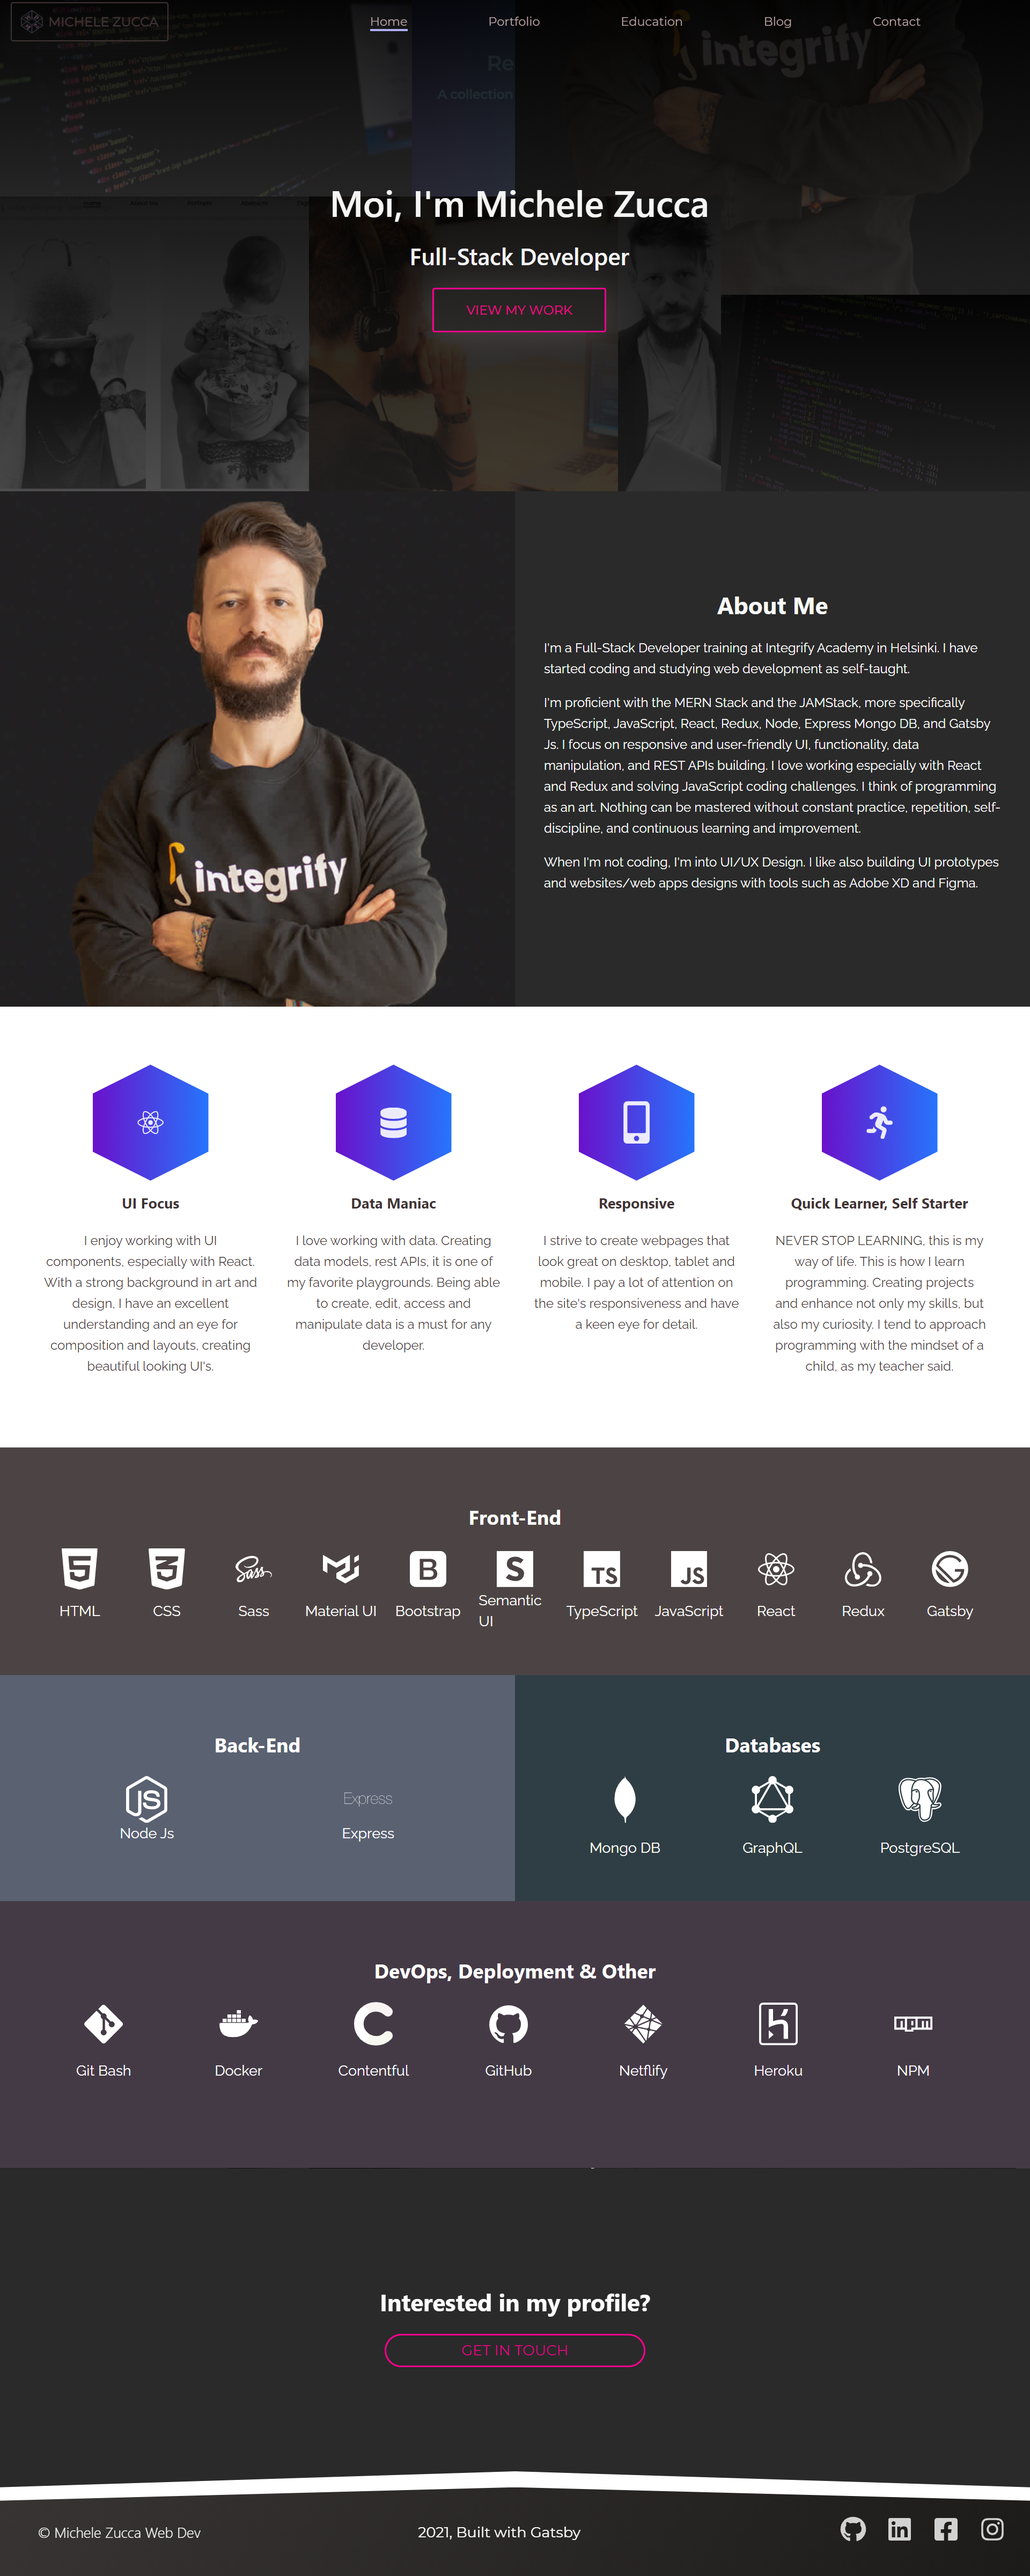
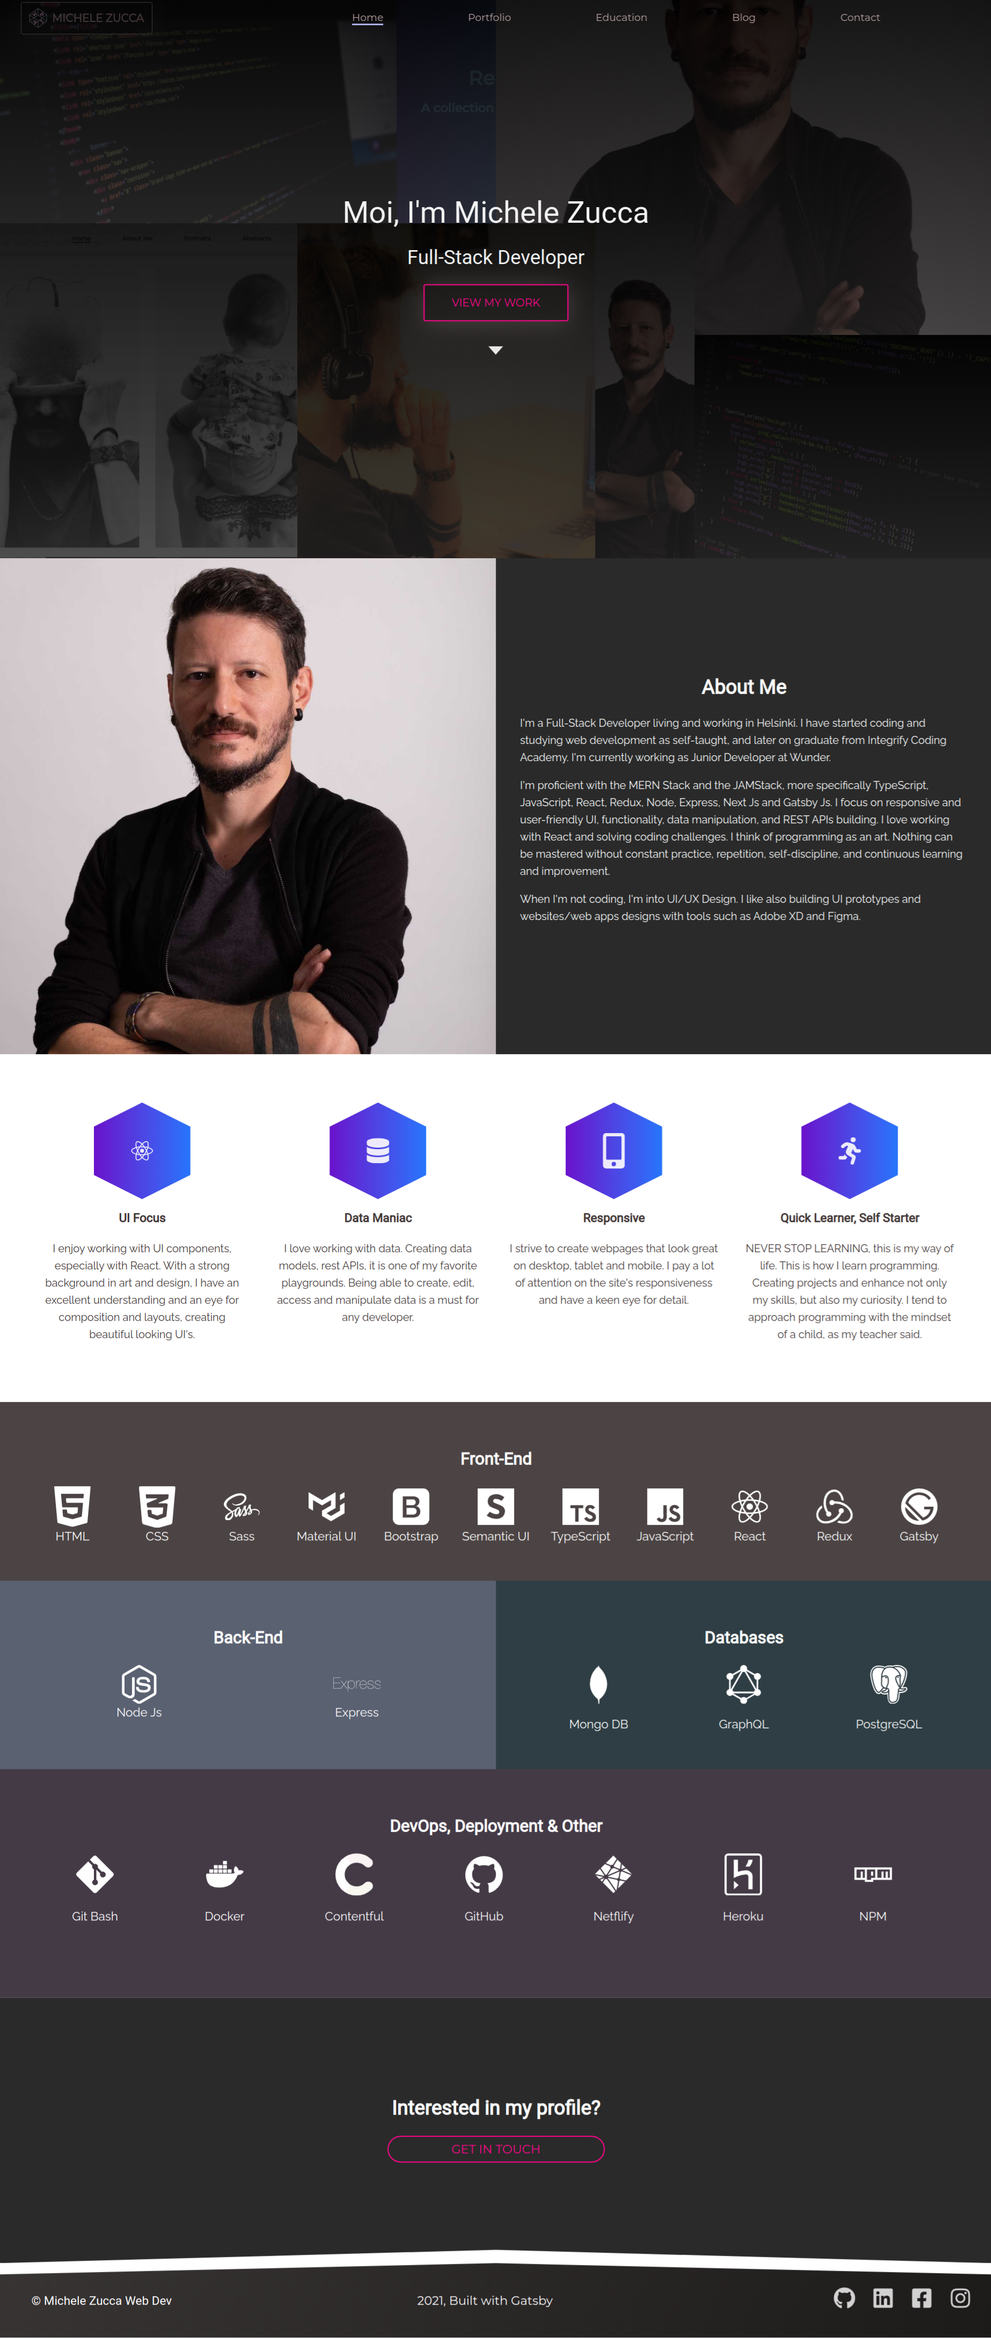
fix: fixed header, updated hero section, improved responsiveness

diff --git a/src/pages/style.scss b/src/pages/style.scss
@@ -52,9 +52,9 @@
     grid-row: 1 / 4;
     grid-column: 6 / 11;
     background-image: linear-gradient(rgba(0, 0, 0, 0.9), rgba(34, 33, 33, 0.8)),
-      url('../imgs/profile-int.jpg');
+      url('../imgs/profile-front.jpg');
     background-size: cover;
-    background-position: bottom;
+    background-position: center;
   }
 
   .image-4 {
@@ -100,7 +100,7 @@
     grid-column: 7 / 8;
     // background-image: linear-gradient(var(--background-hero)), url("../imgs/app-9.jpg");
     background-image: linear-gradient(rgba(0, 0, 0, 0.9), rgba(34, 33, 33, 0.8)),
-      url('../imgs/profile3.png');
+      url('../imgs/profile-side.jpg');
     background-size: cover;
     background-position: center;
     @include md {
@@ -129,21 +129,13 @@
     align-items: center;
     flex-direction: column;
     position: absolute;
-    top: 35%;
-    left: 33%;
+    top: 50%;
+    left: 50%;
+    transform: translate(-50%, -50%);
     z-index: 1;
-    @include xl {
-      top: 37%;
-      left: 32%;
-    }
     @include md {
-      top: 40%;
-      left: 19%;
+      width: 100%;
     }
-    @include sm {
-      left: 8%;
-    }
-
     h1,
     h2 {
       font-weight: 500;
@@ -212,7 +204,7 @@
       transform: translateY(-10px);
     }
   }
-  
+
   @keyframes moveDown {
     0% {
       transform: translateY(0);

diff --git a/src/pages/index.en.tsx b/src/pages/index.en.tsx
@@ -120,12 +120,7 @@ const IndexPage = () => {
         <div className="front-gallery-image image-3"></div>
         <div className="front-gallery-image image-4"></div>
         <div>
-          <div
-            className="frontpage__wrapper"
-            data-sal="zoom-in"
-            data-sal-delay="300"
-            data-sal-easing="ease"
-          >
+          <div className="frontpage__wrapper">
             <h1>{title}</h1>
             <h2>{subtitle}</h2>
             <div className="frontpage__portfolio">

diff --git a/src/components/header/styles.module.css b/src/components/header/styles.module.css
@@ -12,7 +12,7 @@
   display: -ms-flexbox;
   display: flex;
   -ms-flex-pack: distribute;
-  justify-content: space-around;
+  justify-content: space-evenly;
   -webkit-box-align: center;
   -ms-flex-align: center;
   align-items: center;
